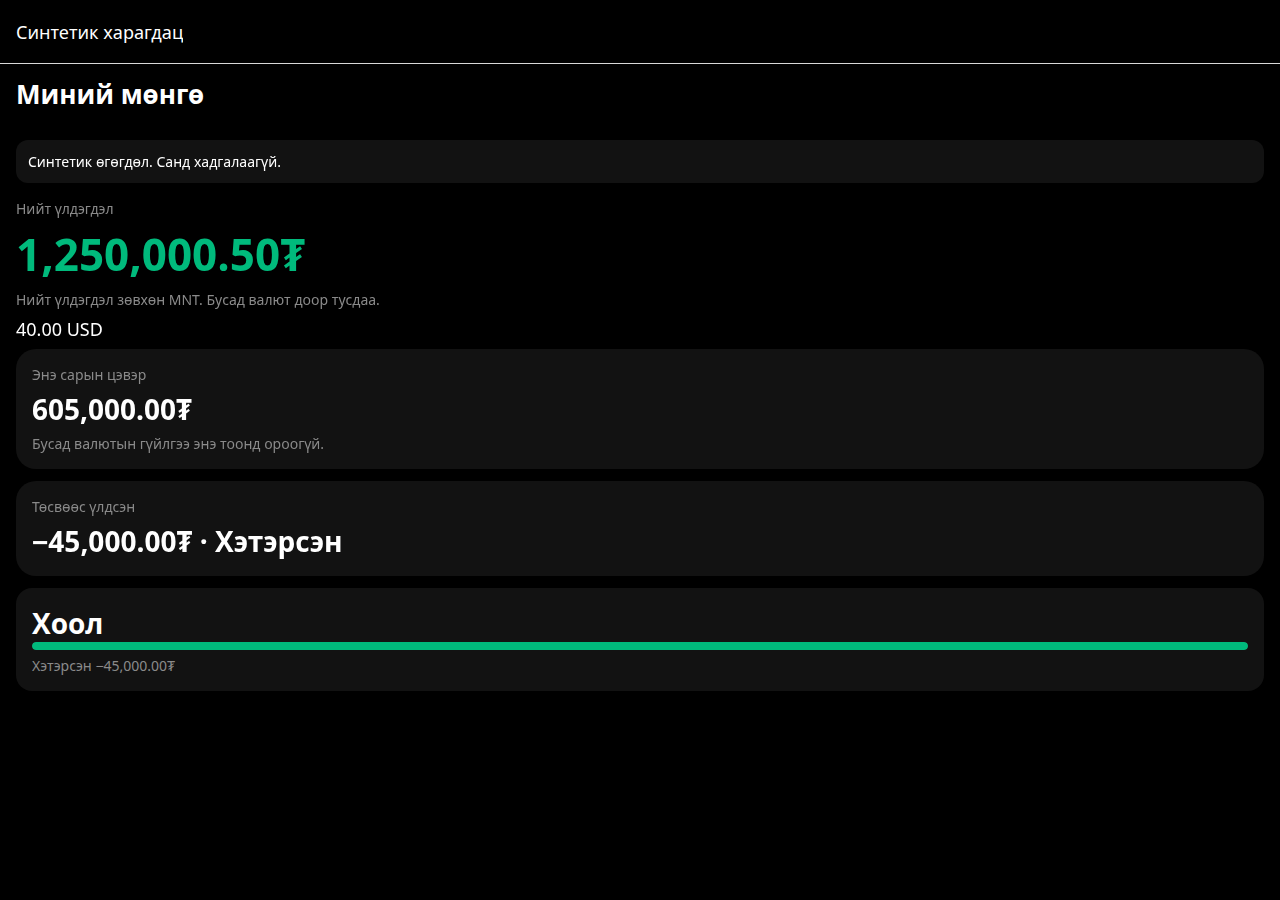
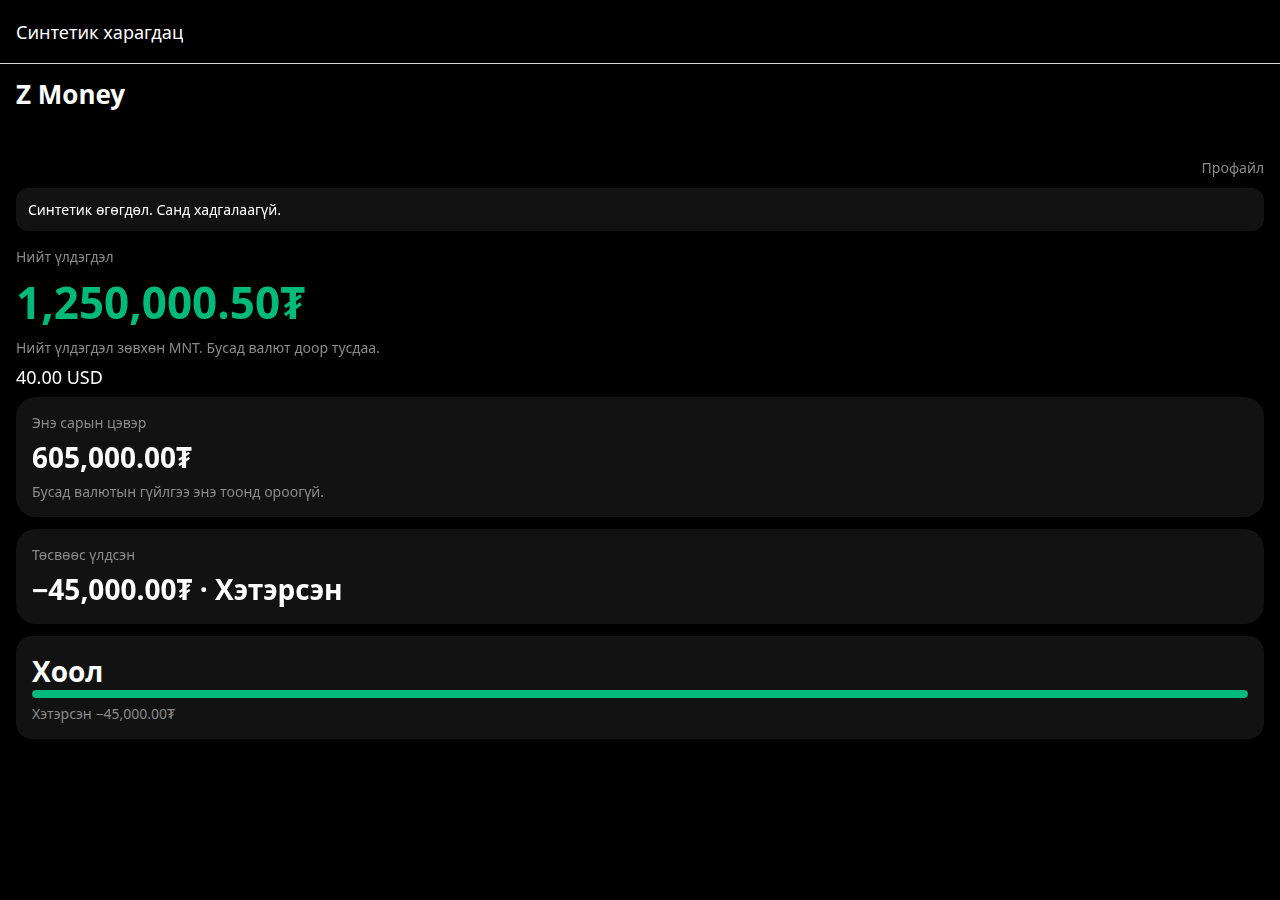
feat: rename the visible app to Z Money
Update the home, login, guest, preview, Expo display name, web title, and README title. Leave the package, scheme, and historical specs unchanged.

Changed region(s): [[0.0, 0.2178, 0.9688, 0.8089], [0.0312, 0.1556, 0.2188, 0.1867], [0.0, 0.0933, 0.1562, 0.1244]]

diff --git a/src/app/guest.tsx b/src/app/guest.tsx
@@ -26,10 +26,10 @@ export default function GuestScreen() {
   );
 
   return (
-    <Screen title="Зочин горим">
+    <Screen title="Z Money">
       <View style={{ paddingHorizontal: 16 }}>
         <Text style={{ color: colors.muted, marginBottom: 12 }}>
-          Орлого, зарлага, төсөв, данснуудаа нэг дор хянах апп. Бүртгүүлж өөрийн өгөгдлөө хадгалаарай.
+          Зочин горим. Орлого, зарлага, төсөв, данснуудаа нэг дор хянах апп. Бүртгүүлж өөрийн өгөгдлөө хадгалаарай.
         </Text>
         <TextInput value={q} onChangeText={setQ} placeholder="Ангилал хайх..." placeholderTextColor={colors.muted} style={styles.search} />
         <View style={{ flexDirection: 'row' }}>

diff --git a/src/app/(auth)/login.tsx b/src/app/(auth)/login.tsx
@@ -32,7 +32,7 @@ export default function LoginScreen() {
   };
 
   return (
-    <AuthShell title="Миний мөнгө" subtitle="Орлого, зарлагаа гараар хянаарай">
+    <AuthShell title="Z Money" subtitle="Орлого, зарлагаа гараар хянаарай">
       <Input label="Имэйл" value={email} onChangeText={setEmail} autoCapitalize="none" keyboardType="email-address" placeholder="name@example.com" error={errors.email} />
       <Input label="Нууц үг" value={password} onChangeText={setPassword} secureTextEntry placeholder="••••••" error={errors.password} />
       {errors.form ? <Text style={styles.formError}>{errors.form}</Text> : null}

diff --git a/src/app/preview-synthetic.tsx b/src/app/preview-synthetic.tsx
@@ -21,7 +21,7 @@ const budgets = budgetRemaining([{ limit: 150000, spent: 195000 }]);
 export default function PreviewSynthetic() {
   const totals = sumByCurrency(accounts);
   return (
-    <Screen title="Миний мөнгө">
+    <Screen title="Z Money">
       <ScrollView contentContainerStyle={styles.content}>
         <Pressable accessibilityRole="button" accessibilityLabel="Профайл" onPress={() => router.push(profileHref)} style={styles.profile}>
           <Text style={styles.note}>Профайл</Text>

diff --git a/src/app/(tabs)/home.tsx b/src/app/(tabs)/home.tsx
@@ -40,7 +40,7 @@ export default function HomeScreen() {
 
   return (
     <Screen
-      title="Миний мөнгө"
+      title="Z Money"
       right={(
         <Pressable accessibilityRole="button" accessibilityLabel="Профайл" hitSlop={8} onPress={() => router.push(profileHref)} style={styles.profile}>
           <Ionicons name="person-outline" size={22} color={colors.text} />

diff --git a/src/lib/theme.ts b/src/lib/theme.ts
@@ -1,4 +1,4 @@
-// «Миний мөнгө». Ногоон дээрх үсэг хар. Цагаан үсэг зөвхөн хар эсвэл карт дээр.
+// Z Money. Ногоон дээрх үсэг хар. Цагаан үсэг зөвхөн хар эсвэл карт дээр.
 export const colors = {
   primary: '#00BA7C',
   onAccent: '#000000',

diff --git a/README.md b/README.md
@@ -1,4 +1,6 @@
-# Миний мөнгө
+# Z Money
+
+Өмнөх нэр нь «Миний мөнгө» байсан. Одоогийн хэрэглэгчид харагдах нэр нь «Z Money». Салбар, багцын нэр, scheme өөрчлөгдөөгүй.
 
 Гараар бүртгэдэг хувийн санхүү. Гурван таб: Нүүр, Гүйлгээ, Төсөв. Нийт үлдэгдэл, энэ сарын цэвэр, төсвөөс үлдсэн нь гурван өөр тоо. Нийлбэр зөвхөн ижил валют дотор. MNT дээр ₮, бусад дээр валютын код. Ханш байхгүй.
 
